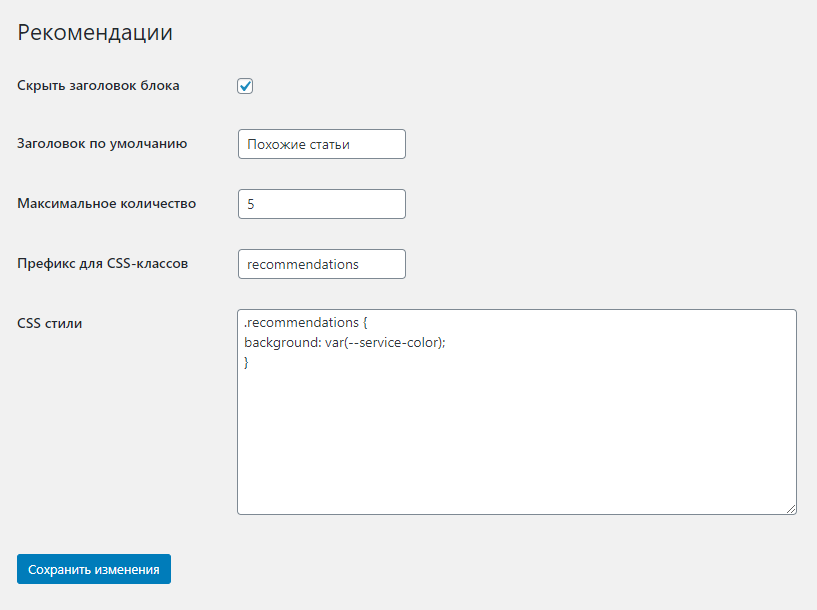
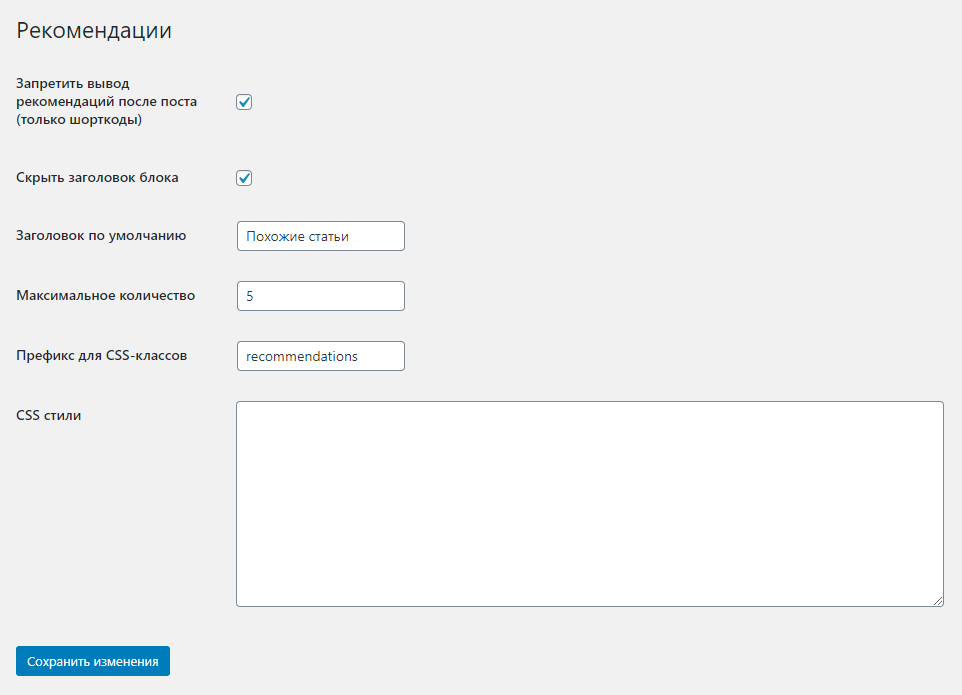
add shortcode

diff --git a/templates/settings.php b/templates/settings.php
@@ -27,6 +27,7 @@ function recommendations_settings_page() {
 add_action('admin_init', function() {
   register_setting('recommendations_settings_group', 'recommendations_custom_css_option', 'strip_tags');
   register_setting('recommendations_settings_group', 'recommendations_options', 'recommendations_sanitize');
+  register_setting('recommendations_settings_group', 'recommendations_disable', 'intval');
 
   if (!get_option('recommendations_options')) {
     update_option('recommendations_options', [
@@ -38,6 +39,8 @@ add_action('admin_init', function() {
   }
 
   add_settings_section('main_settings', '', '', 'primer_page');
+
+  add_settings_field('recommendations_disable', __('Disable recommendations (only shortcode)', 'recommendationsl10n'), 'recommendations_disable_template', 'primer_page', 'main_settings');
 
   add_settings_field('recommendations_hide_title', __('Hide block title', 'recommendationsl10n'), 'recommendations_hide_title_template', 'primer_page', 'main_settings');
   add_settings_field('recommendations_default_title', __('Default title', 'recommendationsl10n'), 'recommendations_default_title_template', 'primer_page', 'main_settings');
@@ -60,6 +63,13 @@ function recommendations_hide_title_template() {
   else $value = 0;
   ?>
     <input type="checkbox" name="recommendations_options[hide_title]" value="1" <?php checked(1, $value) ?> >
+  <?php
+}
+
+function recommendations_disable_template() {
+  $value = get_option('recommendations_disable');
+  ?>
+    <input type="checkbox" name="recommendations_disable" value="1" <?php checked(1, $value) ?> >
   <?php
 }
 

diff --git a/templates/front.php b/templates/front.php
@@ -12,6 +12,10 @@ add_action('wp_head', function() {
 add_filter('the_content', 'recommendations_view');
 
 function recommendations_view($content) {
+  if (get_option('recommendations_disable')) {
+    return $content;
+  }
+
   global $post;
   $postId = $post->ID;
 
@@ -19,6 +23,12 @@ function recommendations_view($content) {
   $isRecommendationsVisible = get_post_meta($postId, 'recommendations_visible', true);
   if (!$isRecommendationsVisible) return $content;
 
+  $recommendationsBlock = recommendations_create_block($content, $postId);
+
+  return $content.$recommendationsBlock;
+}
+
+function recommendations_create_block($content, $postId) {
   $options = get_option('recommendations_options');
 
   /** Sets them limit count */
@@ -77,6 +87,13 @@ function recommendations_view($content) {
 
   $html .= "</ul>";
   $html .= "</section>";
-
-  return $content.$html;
+  return $html;
 }
+
+add_shortcode('recommendations', function($attrs) {
+  $postId = $attrs['id'];
+  if (!$postId) return '';
+
+  $post = get_post($postId);
+  return recommendations_create_block($post->post_content, $postId);
+});

diff --git a/README.md b/README.md
@@ -12,6 +12,7 @@
 
 ![Страница настроек плагина Рекомендации](./screenshots/settings-page.png)
 
+* Запретить вывод рекомендаций после поста (только шорткоды) - запрещает добавление блока рекомендаций после текста поста
 * Скрыть заголовок блока - убирает заголовок `Похожие статьи`.
 * Заголовок по умолчанию - текст заголовка по умолчанию (`Похожие статьи`).
 * Максимальное количество - ограничивает количество выводимых ссылок
@@ -38,3 +39,11 @@
   * Ссылка - URL-адрес
   * Текст ссылки
 * Рекомендовать теги - включить в список рекомендаций посты по выбранным тегам (подбираются автоматически).
+
+## Шортокод
+
+```
+[recommendations id="POST_ID"]
+```
+
+* `POST_ID` - идентификатор поста/страницы, для которой нужно сгенерировать блок рекоммендаций
